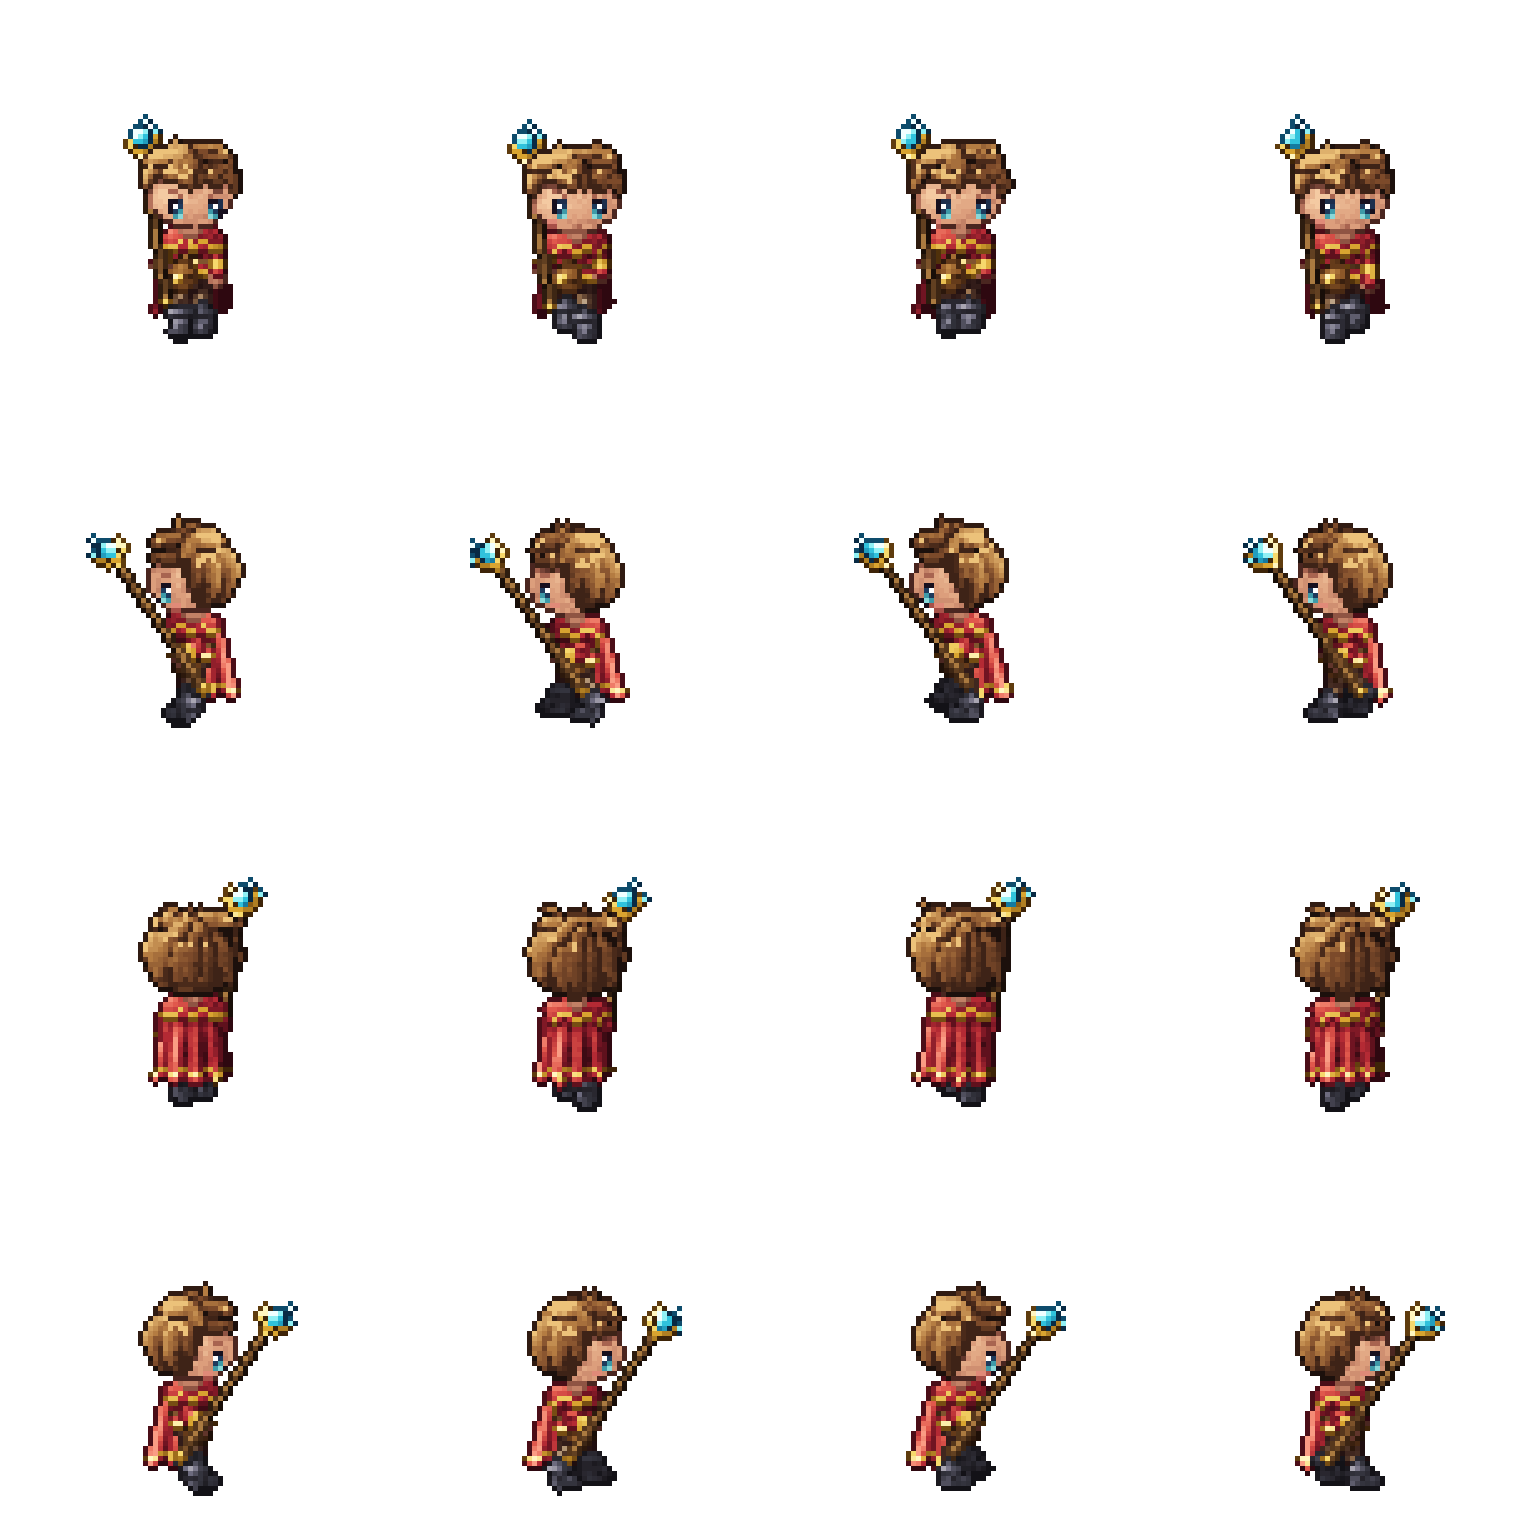
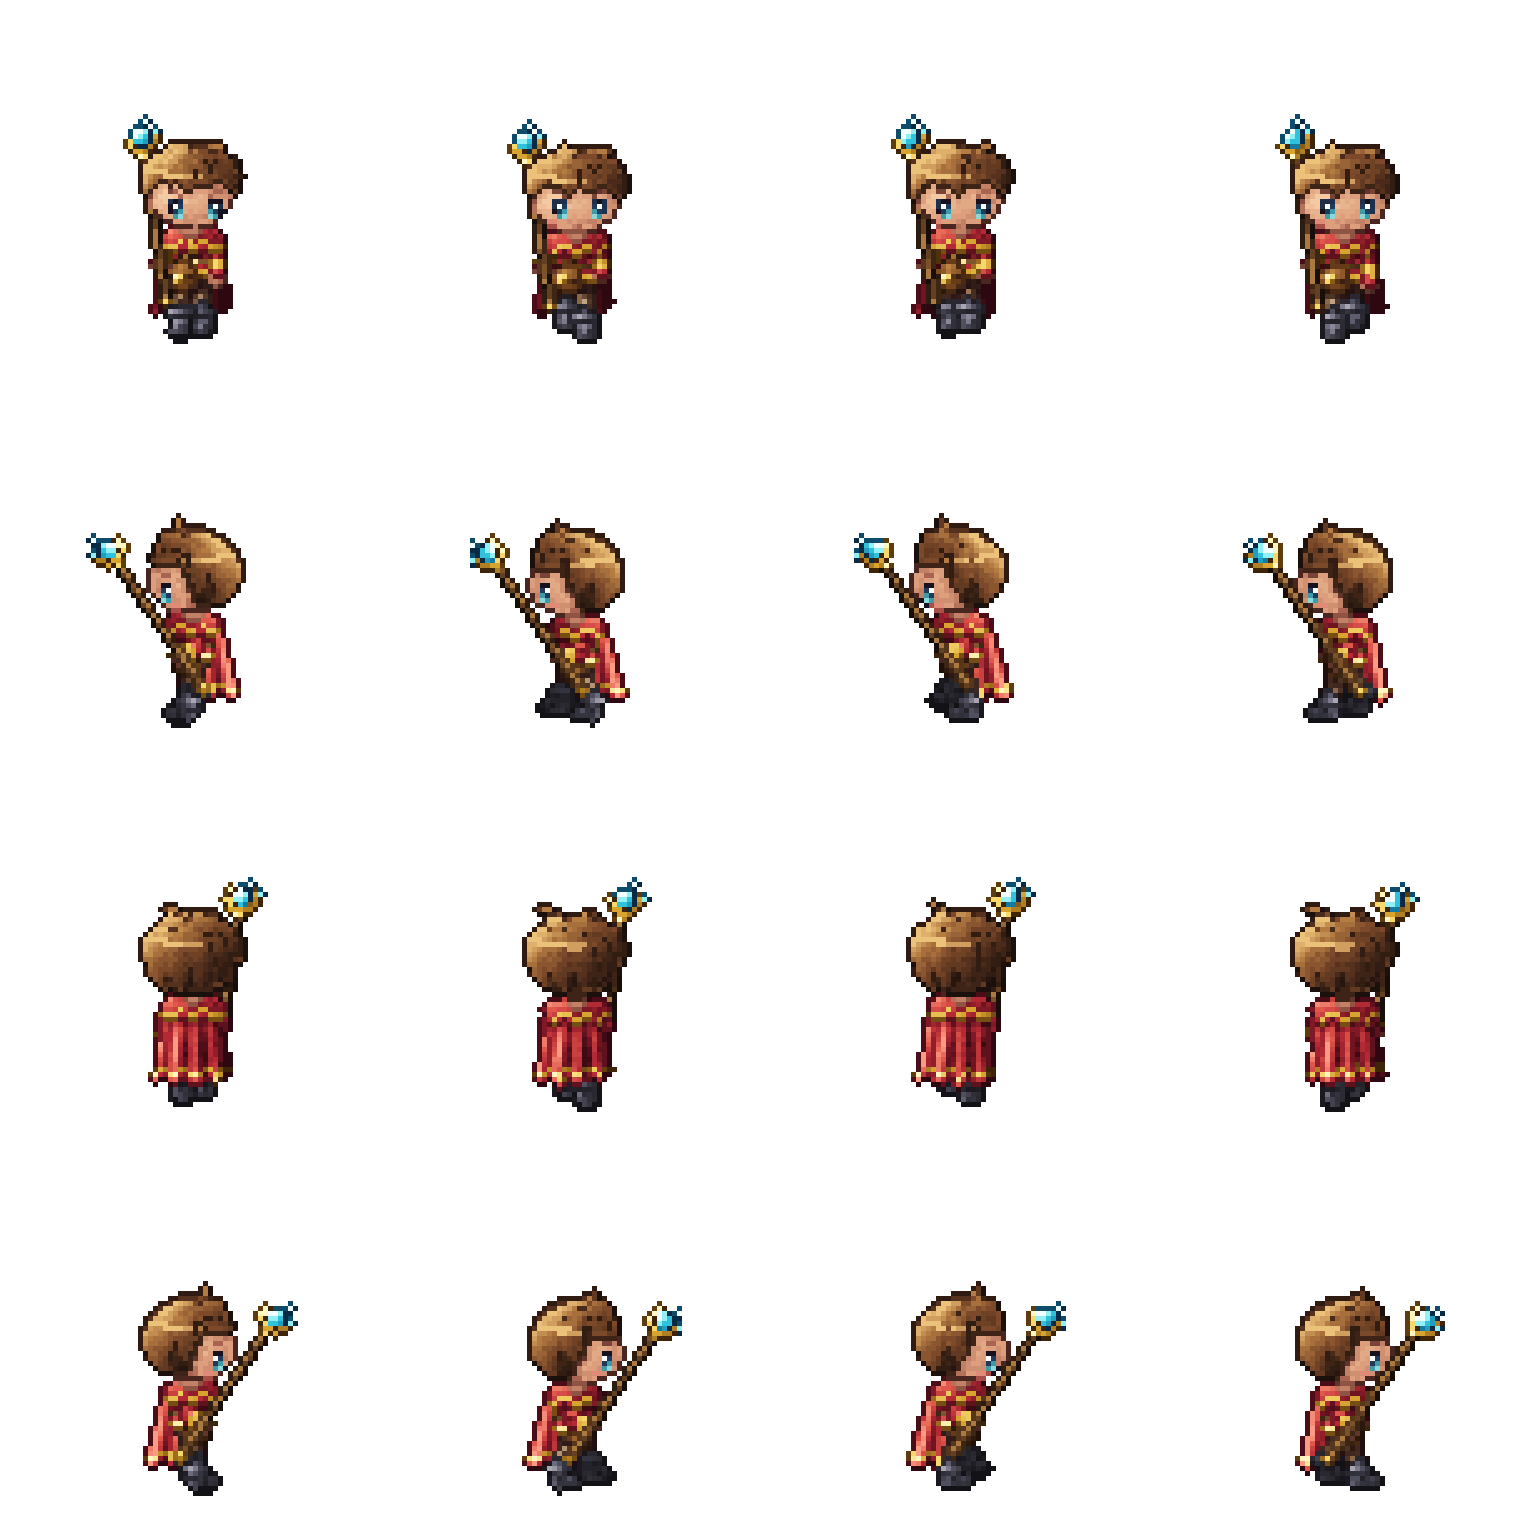
Character sprites: simplify the hairstyle
At ~15px head width, many separately tinted locks read as noise.
The hair is now a few broad locks (4 bangs, 1 sideburn per side,
4 back, 3 small top tufts) shaded mainly by whole-head lighting,
with a single arc highlight band, a couple of soft seams and no
per-lock tint. The hair base is shaded too, so gaps are not black.
Docs: hair section rewritten around a lock-count limit; checklist
item added. Exports regenerated.

Claude-Session: https://claude.ai/code/session_01JLEecThURYQTCHEQgBW1W6

diff --git a/hd2d-walk-demo/src/items/hair/messy.ts b/hd2d-walk-demo/src/items/hair/messy.ts
@@ -4,7 +4,7 @@ import type { Pose } from '../../character/rig';
 import type { DrawCtx, ItemDef } from '../../character/types';
 
 /**
- * 蓬松乱发 —— 一缕一缕画出来的。
+ * 蓬松短发 —— 少量宽发束，读成一整块。
  *
  * 把头发看成贴在一个球面上的许多发束：每束从头顶的发旋出发，沿经线往下长到某个纬度，
  * 发梢向外翘一点、朝同一侧拧一点（斜刘海）。按角色朝向把球面投影到屏幕，5 个方向自然一致：
@@ -58,22 +58,24 @@ function buildLocks(): Lock[] {
   const r = rng(77123);
   const j = (amp: number) => (r() * 2 - 1) * amp;
   const out: Lock[] = [];
-  // 刘海：盖住额头但不压住眼睛，整体朝一侧斜；中间一缕长一点
-  for (const [phi, len] of [[-58, 60], [-37, 64], [-16, 71], [5, 62], [26, 65], [48, 60]]) {
-    out.push({ phi: phi + j(4), a0: 5, a1: len + j(3), twist: 16 + j(9), flick: 1.05 + r() * 0.07, lift: 0, width: 2.9, tier: 0, tint: j(0.22) });
+  // 低像素密度下发型越简单越好看：少而宽的几大缕，靠整体受光分出大块亮面和暗面，
+  // 不做一缕一缕深浅不同的细碎层次（那些在 40 像素的头上只会变成噪点）。
+
+  // 刘海：4 缕宽发束盖住额头，整体朝一侧斜；中间一缕略长
+  for (const [phi, len] of [[-48, 64], [-17, 73], [14, 65], [44, 62]]) {
+    out.push({ phi: phi + j(3), a0: 5, a1: len + j(2), twist: 16, flick: 1.06, lift: 0, width: 3.3, tier: 0, tint: 0 });
   }
-  // 鬓角：垂到下颌，框住脸，发梢向外翘
-  // 鬓角贴在耳朵前后（方位 ±92~110°），侧面不能盖到脸颊上；只垂到脸颊上半，露出下半边圆圆的脸颊
-  for (const phi of [94, 110, -94, -110]) {
-    out.push({ phi: phi + j(3), a0: 5, a1: 94 + j(5), twist: j(8), flick: 1.08 + r() * 0.08, lift: 0, width: 2.3, tier: 0, tint: j(0.22) });
+  // 鬓角：左右各一缕，贴在耳前，只垂到脸颊上半
+  for (const phi of [100, -100]) {
+    out.push({ phi, a0: 5, a1: 96, twist: 0, flick: 1.08, lift: 0, width: 3.4, tier: 0, tint: 0 });
   }
-  // 后发：垂到后颈，长短不齐，发梢只微微外翘（翘太多侧面会往后拖出一大截）
-  for (const phi of [120, 142, 164, -173, -151, -129]) {
-    out.push({ phi: phi + j(5), a0: 5, a1: 126 + j(10), twist: j(14), flick: 1.04 + r() * 0.08, lift: 0, width: 3.2, tier: 0, tint: j(0.22) });
+  // 后发：4 缕宽发束垂到后颈，发梢只微微外翘
+  for (const phi of [128, 160, -168, -136]) {
+    out.push({ phi: phi + j(4), a0: 5, a1: 126 + j(6), twist: j(8), flick: 1.06, lift: 0, width: 3.8, tier: 0, tint: 0 });
   }
-  // 上层：短而翘的发束，叠在长发束上面，把轮廓打乱成尖尖的一圈
-  for (let phi = -160; phi <= 180; phi += 45) {
-    out.push({ phi: phi + j(14), a0: 3, a1: 50 + j(12), twist: 12 + j(24), flick: 1.2 + r() * 0.22, lift: 0.05, width: 2.8, tier: 1, tint: j(0.25) });
+  // 头顶三撮短翘发：只为了让轮廓不是一个光滑的圆，明暗和整体一致，不另做层次
+  for (const phi of [-150, -40, 75]) {
+    out.push({ phi, a0: 3, a1: 40, twist: 18, flick: 1.18, lift: 0.04, width: 2.6, tier: 1, tint: 0 });
   }
   // 头顶的呆毛
   out.push({ phi: 30, a0: 0, a1: 34, twist: 40, flick: 1.6, lift: 0.04, width: 0.9, tier: 2, tint: 0 });
@@ -126,8 +128,15 @@ function drawLocks(c: DrawCtx, back: boolean): void {
   const { g, pose } = c;
   const cx = pose.head.x + pose.sin * 0.2, cy = pose.head.y - 1.2;
   c.pal('main');
-  g.grit = 0.2;
+  g.grit = 0.1;
   g.anchor(cx, cy);
+  // 整个头的受光：左上亮、右下暗。头发的明暗主要由它决定，大块面
+  const headLight = (u: number, v: number) => -((u - cx) / RX) * 0.62 + ((cy - v) / RY) * 0.7;
+  // 天使环：画面上一道向两侧下弯的弧形光带，只在受光的左上那一侧出现
+  const ring = (u: number, v: number) => {
+    const x = (u - cx) / RX, y = (cy - v) / RY - 0.16 * x * x;
+    return y > 0.3 && y < 0.46 && headLight(u, v) > 0.12;
+  };
 
   if (!back) {
     // 发根底色：把像素反投影回球面，落在发际线以内的就是头发
@@ -142,7 +151,9 @@ function drawLocks(c: DrawCtx, back: boolean): void {
       const s = X * pose.cos - n * pose.sin, f = X * pose.sin + n * pose.cos;
       const alpha = Math.acos(Math.max(-1, Math.min(1, w))) / RAD;
       const phi = Math.abs(Math.atan2(s, f)) / RAD;
-      return alpha < hairline(phi) ? OUTLINE : -1;
+      // 底色也按整体受光着色（偏暗），发束之间的缝隙不会是一个个黑点
+      if (alpha >= hairline(phi)) return -1;
+      return ring(u, v) ? LIGHT : g.t(headLight(u, v) * 0.9 - 0.55);
     });
   }
 
@@ -156,16 +167,14 @@ function drawLocks(c: DrawCtx, back: boolean): void {
   for (const { k, pts } of items) {
     g.ribbon(pts, (s) => k.width * HS * profile(s), (lam, o, s, u, v) => {
       if (k.tier === 2) return o > 0.2 ? DARK : s > 0.5 ? LIGHT : BASE;
-      // 整个头的受光：左上亮、右下暗
-      const gl = -((u - cx) / RX) * 0.56 + ((cy - v) / RY) * 0.62;
-      let sh = g.t(lam * 0.85 + gl * 0.6 - 0.3 + k.tint + (back ? -0.5 : 0));
-      // 一圈高光带（天使环）：只出现在受光一侧发束的亮面上
-      const alpha = k.a0 + (k.a1 - k.a0) * s;
-      if (!back && alpha > 36 && alpha < 50 && gl > 0.05 && o < -0.05 && o > -0.75 && sh >= BASE) sh = HI;
-      // 每束右下缘一道深色的缝，把相邻发束分开
-      if (o > 0.66) sh = OUTLINE;
-      else if (o > 0.36) sh = Math.max(DARK, sh - 1);
-      if (s > 0.85) sh = Math.max(DARK, sh - 1); // 发梢
+      const gl = headLight(u, v);
+      // 以整体受光为主，发束自身的圆柱光照只占一小部分
+      let sh = g.t(gl * 0.95 + lam * 0.3 - 0.22 + (back ? -0.45 : 0));
+      // 一道干净的高光带（天使环）
+      if (ring(u, v) && o < 0.6) sh = gl > 0.42 ? HI : Math.max(sh + 1, LIGHT + 0.5);
+      // 发束之间只用暗一档的缝分开，不用深描边
+      if (o > 0.72 && s > 0.25) sh = Math.max(OUTLINE + 0.5, sh - 1.5);
+      if (s > 0.9) sh = Math.max(DARK, sh - 0.5); // 发梢略暗
       return sh;
     });
   }

diff --git a/docs/CHARACTER_SPRITES.md b/docs/CHARACTER_SPRITES.md
@@ -148,33 +148,53 @@ export const myItem: ItemDef = {
 
 ### 6.3 发型（`src/items/hair/`）
 
-头发是贴在椭球上的一缕一缕发束。每个方向都由同一组发束投影得到，所以正面、侧面、背面自然一致。
+**总原则：这个像素密度下，发型越简单越好看。** 头只有约 15 像素宽，一缕一缕深浅不同的细碎层次只会变成噪点。发型应该读成一整块：大块亮面加大块暗面，一道高光带，两三条发束缝交代走向，刘海下缘有参差的发梢。不要为了「细节」叠加更多发束。
+
+头发由少量贴在椭球上的宽发束组成。每个方向都由同一组发束投影得到，所以正面、侧面、背面自然一致。
 
 **头发椭球**：左右半径 `RX ≈ 12.9`，上下 `RY ≈ 12.3`，前后 `RZ ≈ 11.4`（基准 11.6 / 11 / 10.2 乘以 `HS`，`HS` = 头的半径 / 10.4，头放大时发型和发束宽度一起放大）。前后半径必须比左右小，否则侧面头会被拉成横向的长条。俯视角为 18°。
+
+**发束数量（上限）**：
+
+| 部位 | 数量 | 宽度 `width` |
+| --- | --- | --- |
+| 刘海 | 4 | 3.3 |
+| 鬓角 | 左右各 1 | 3.4 |
+| 后发 | 4 | 3.8 |
+| 头顶短翘发（`tier: 1`） | 3，只为打破圆形轮廓 | 2.6 |
+| 呆毛（`tier: 2`） | 1 | 0.9 |
 
 每一缕 `Lock`：
 
 | 字段 | 含义 | 建议范围 |
 | --- | --- | --- |
 | `phi` | 方位角：0 = 脸正前方，+ = 角色左侧，±180 = 后脑 | |
-| `a0 / a1` | 起止纬度，0 = 头顶 | 刘海 a1 60–72；鬓角 90–100；后发 120–135 |
-| `twist` | 发梢在方位上拧的角度。刘海整体同向拧，形成斜刘海 | 刘海 10–25，其余 ±15 |
-| `flick` | 发梢外翘比例 | 刘海 1.05–1.12；鬓角 ≤ 1.16；**后发 ≤ 1.12**（翘多了侧面往后拖一截） |
-| `lift` | 发根离头皮的高度 | 上层短发束 0.05，其余 0 |
-| `width` | 最大半宽（单位，绘制时再乘 `HS`） | 2.3–3.2 |
-| `tier` | 0 长发束 / 1 上层短发束 / 2 呆毛 | |
-| `tint` | 这一束整体偏亮或偏暗，深浅不一才看得出层次 | ±0.25 |
+| `a0 / a1` | 起止纬度，0 = 头顶 | 刘海 a1 62–74；鬓角 90–100；后发 120–135；短翘发约 40 |
+| `twist` | 发梢在方位上拧的角度。刘海整体同向拧，形成斜刘海 | 刘海 16，其余 ±8 |
+| `flick` | 发梢外翘比例 | 刘海、鬓角、后发 1.06–1.08；短翘发 1.18 |
+| `lift` | 发根离头皮的高度 | 短翘发 0.04，其余 0 |
+| `width` | 最大半宽（单位，绘制时再乘 `HS`） | 见上表 |
+| `tier` | 0 发束 / 1 头顶短翘发 / 2 呆毛 | |
+| `tint` | 单缕偏亮或偏暗 | **固定为 0**，不做一缕一缕的深浅差 |
+
+**明暗**：
+
+- 以整颗头的受光为主（左上亮、右下暗，系数 0.95），发束自身的圆柱光照只占 0.3。
+- 发根底色也按整体受光着色，只是偏暗，发束之间的缝隙不会是黑点。
+- 发束之间的缝只比周围暗 1.5 阶，而且只在发束后段出现，不用深描边。
+- 天使环是画面上一道向两侧下弯的弧形光带（头中心往上 0.30–0.46 个半径），只出现在受光的左上那一侧，最亮处用高光色。
+- 头发的颗粒噪声 `grit` 为 0.1，是布料的一半左右。
 
 硬性要求：
 
 1. **鬓角放在方位 ±92°–110°**（耳朵前后），只垂到脸颊上半（a1 ≤ 100）。方位小于 85° 时侧面会把脸颊整块盖住；垂得太长会把正面的脸夹成竖长方块，失去圆脸。
-2. **刘海不压眼睛**，`a1 ≤ 72`。只有中间一缕可以略长，垂到两眼之间。
+2. **刘海不压眼睛**，`a1 ≤ 74`。中间一缕可以略长，垂到两眼之间。
 3. **不露头皮**：发束下面有一层按 `hairline(phi)` 计算的发根底色。改发际线时，前额 50°（方位 < 70°），耳前只盖到脸颊上半，过渡到 95°（方位 100°），后脑约 118°–129°。
 4. **分两层**：`hair_back` 放在头后面那一侧（`near < −0.12`）的发束，`hair` 放其余发束和发根底色。
 5. **发束随机数用固定种子**，每次烘焙结果一致。
-6. **配色**：手写 5 色，色相从暗部的红棕过渡到亮部的金色。天使环高光只出现在受光一侧、纬度 36°–50° 的发束亮面上。发色变体写在 `variants` 里。
+6. **配色**：手写 5 色，色相从暗部的红棕过渡到亮部的金色。发色变体写在 `variants` 里。
 
-新发型的做法：复制 `messy.ts`，改 `buildLocks()` 中的发束表和种子，改 `id`。短发调小 `a1`，长发增大 `a1` 并加后发束；马尾可以单独加一个 `layer: 'hair_back'` 的 `ribbon` 部件。
+新发型的做法：复制 `messy.ts`，改 `buildLocks()` 中的发束表和种子，改 `id`，并遵守上面的数量上限。短发调小 `a1`，长发增大 `a1`；马尾可以单独加一个 `layer: 'hair_back'` 的 `ribbon` 部件。
 
 ### 6.4 衣服（`src/items/top|bottom|shoes|scarf|bag/`）
 
@@ -222,6 +242,7 @@ export const myItem: ItemDef = {
 - [ ] 预览页放大检查 5 个方向 × 8 帧。
 - [ ] **侧面（E、SE、NE）的轮廓没有凸起**：鼻尖、下巴、腮红、围巾、发梢都不能鼓出来。
 - [ ] 正面五官左右对称，眼睛没有被刘海盖住，没有露出头皮。
+- [ ] 发型读成一整块：有一道高光带和两三条发束缝，没有细碎的深浅斑点。
 - [ ] 待机两帧有 1 单位的呼吸起伏；行走时腿交替、手臂摆动、身体有下沉。
 - [ ] 镜像方向（W、NW、SW）和原方向的脚底锚点对齐，没有左右错位。
 - [ ] 遮挡关系正确：近侧手臂在身前，远侧在身后；武器的前后层正确；斗篷背面盖住身体。
